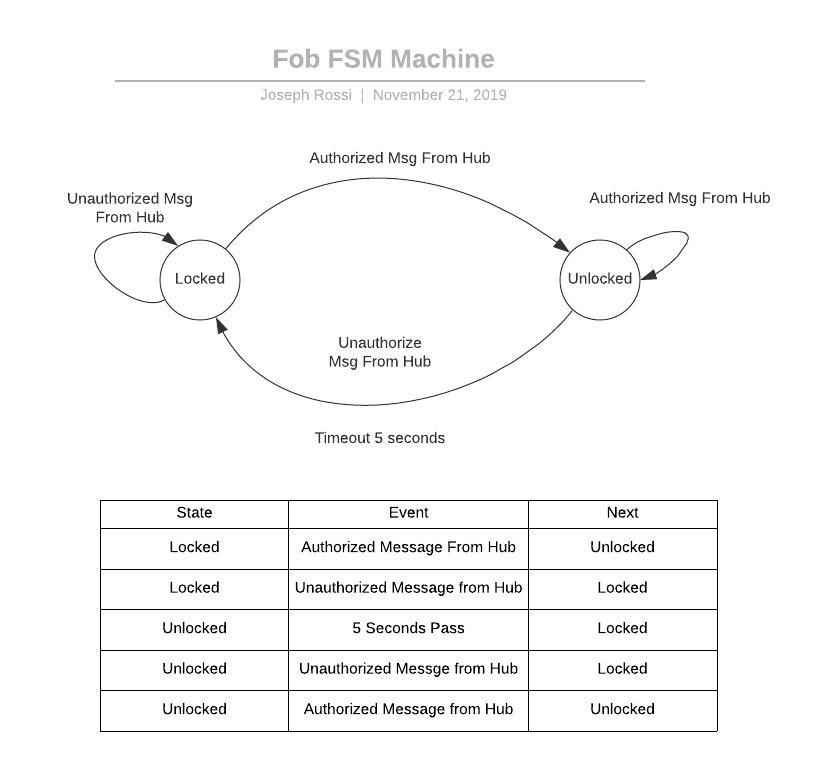
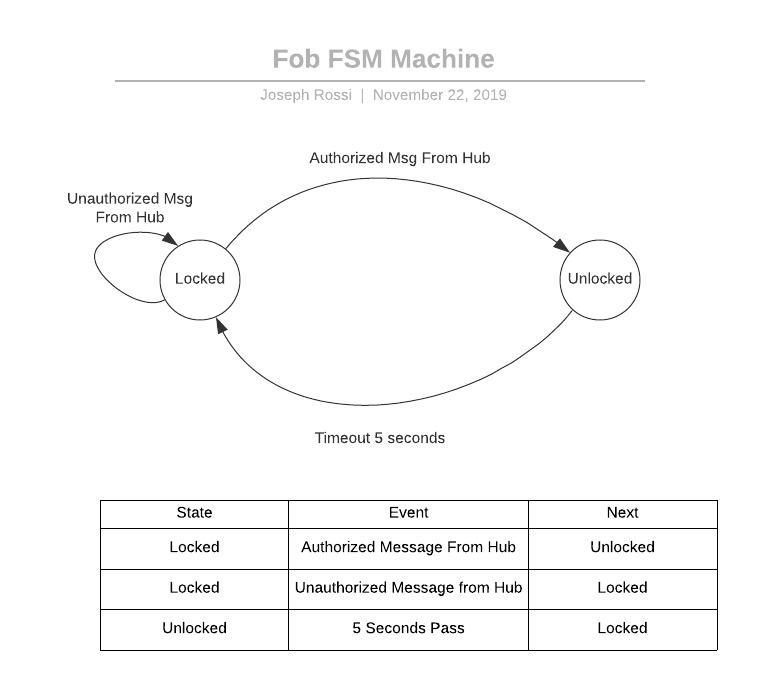
Fixing state machine diagram.

diff --git a/quest-5/report.md b/quest-5/report.md
@@ -17,7 +17,7 @@ In this quest, we implemented a device that acts as a security key fob. When a b
 
 There are three key fobs that we built, each with its own user ID and access code. Each fob transmits a hex encoded code at the press of a button while also continuously receiving a LOCKED or UNLOCKED signal from the hub. The ESP RMT is used to produce a 38kHz signal that is then ANDed via a motor driver with the signal from the transmitter. This is the decoded by the IR receiver and the message is sent to the ESP. If the UNLOCKED signal is received by the fob (sent by the hub), then the green LED on the fob lights up for five seconds indicating it has unlocked and then locks again, indicated by the red LED turning on.
 
-Here is an FSM digram detailing the fob states:
+Below is an FSM digram detailing the fob states. Note that the only transition from unlocked to locked is the 5 second delay. The fob is incapable of sending or receiving messages during that time.
 
 <center><img src="./images/fob_state_machine.jpg" width="70%"></center>
 
